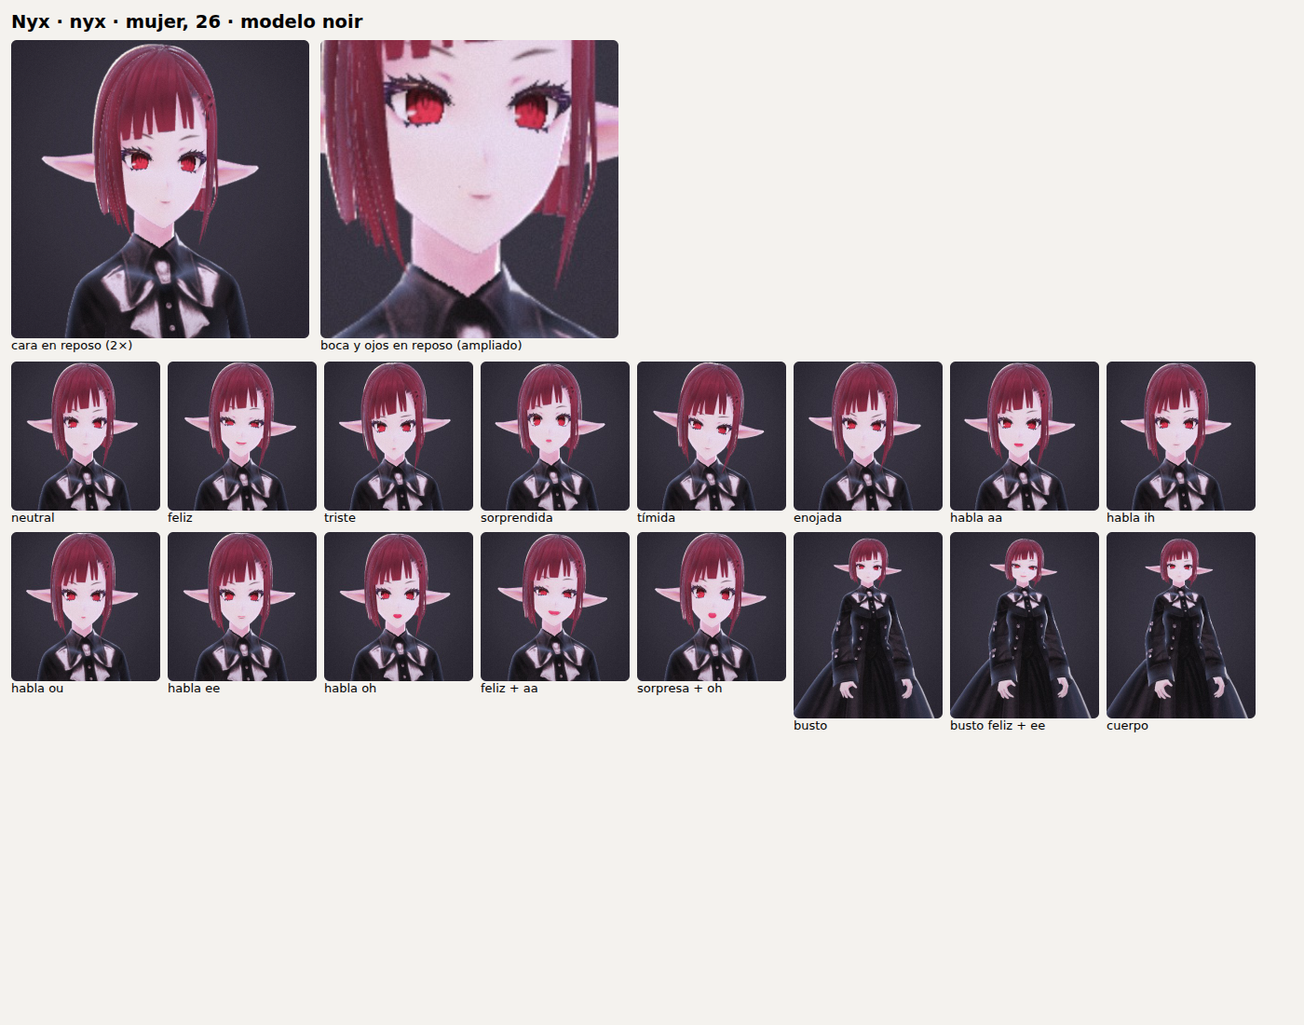
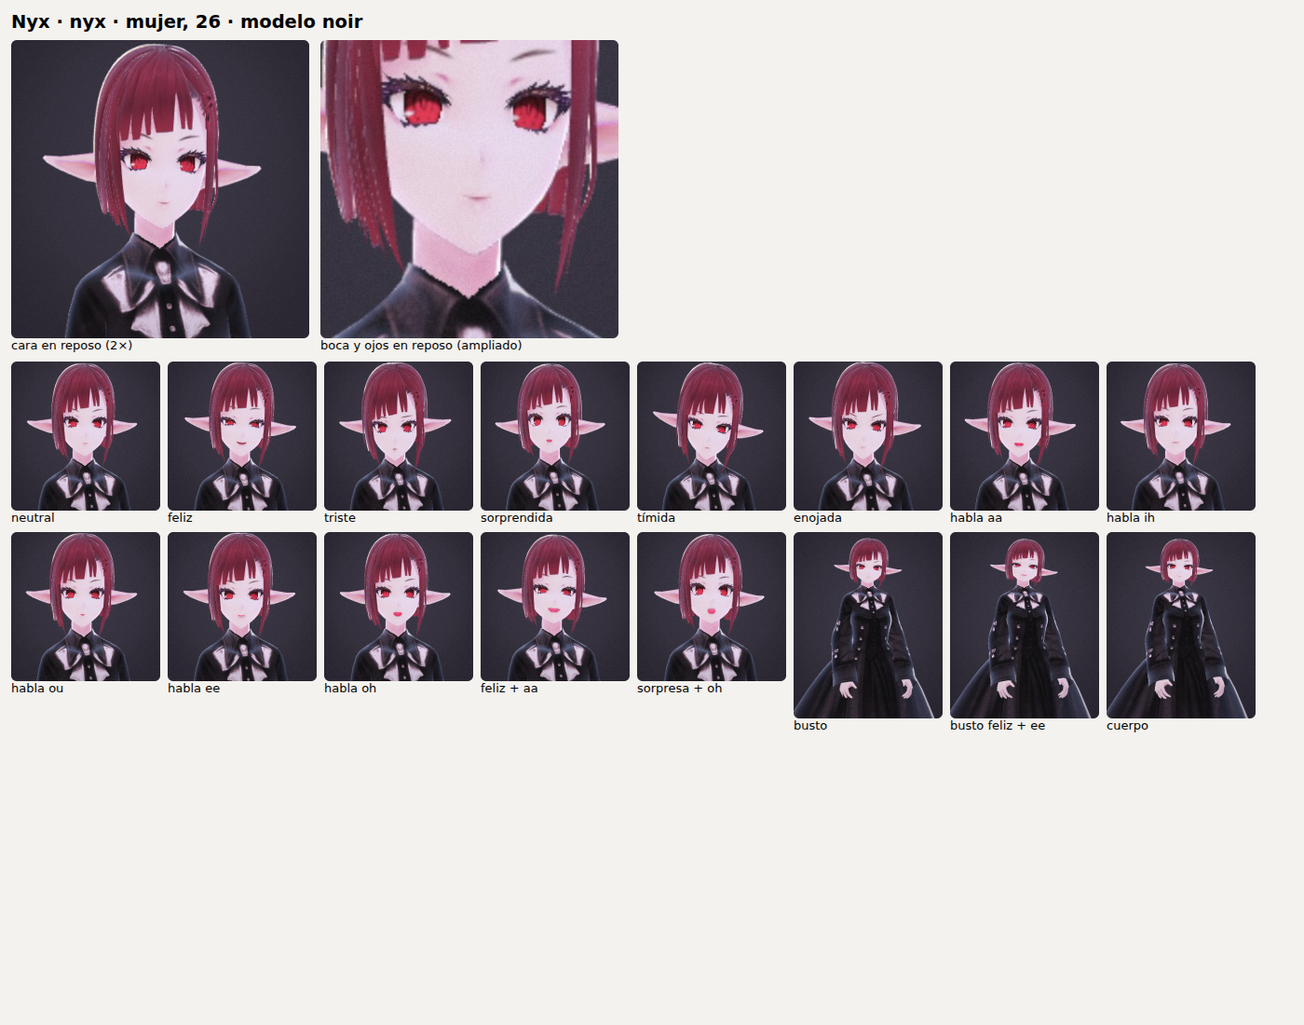
WP-10: boca cerrada en reposo (interior oscurecido), edad más visible y Personalizar por rangos
Tras la primera revisión independiente: 7 bocas con doble línea (dientes por la rendija),
35+ poco maduro y deslizador sin rangos. Interior de la boca en tono sombra en reposo;
ojos más estrechos por rango, maquillaje discreto desde 28, sombra de barba en hombres 35+;
a 35+ fuera también camiseta y sudadera; peinado parecido al cambiar de cuerpo; botones de
rango + edad exacta; textos más claros. Prompt de habla por edad desplegado.

Claude-Session: https://claude.ai/code/session_0188cjAJLeq8GTW6oDs1W4kc

diff --git a/src/lib/character/ageRanges.ts b/src/lib/character/ageRanges.ts
@@ -31,6 +31,8 @@ export interface AgeRange {
   accessoriesDenied: string[];
   /** Ropa lisa obligatoria (estilo más cuidado). */
   plainOutfit: boolean;
+  /** Rubor máximo (el rubor fuerte aniña) y maquillaje adulto discreto si no se eligió otro. */
+  makeup: { blushMax: number; lip: string | null; eyeshadow: string | null };
   /** Voces adecuadas (ids de VOICES); la primera es la automática. */
   voices: { female: string[]; male: string[] };
   /** Cómo habla (va al prompt del personaje). */
@@ -72,6 +74,7 @@ export const AGE_RANGES: AgeRange[] = [
     hairDenied: [],
     accessoriesDenied: [],
     plainOutfit: false,
+    makeup: { blushMax: 1, lip: null, eyeshadow: null },
     voices: { female: [V.sarah, V.laura, V.jessica, V.lily], male: [V.liam, V.chris, V.will, V.eric] },
     speech: 'Hablas como alguien de entre 18 y 22 años: fresco y espontáneo, con expresiones actuales, pero sin sonar infantil.',
   },
@@ -82,11 +85,12 @@ export const AGE_RANGES: AgeRange[] = [
     label: { es: '23–27 años', en: '23–27' },
     short: '23–27',
     typical: 25,
-    face: { lid: 0.05, iris: 0.97, head: 1, contour: 0 },
+    face: { lid: 0.07, iris: 0.97, head: 1, contour: 0 },
     bodiesDenied: [],
     hairDenied: [],
     accessoriesDenied: [],
     plainOutfit: false,
+    makeup: { blushMax: 0.5, lip: null, eyeshadow: null },
     voices: { female: [V.sarah, V.jessica, V.alice, V.laura, V.lily], male: [V.liam, V.will, V.eric, V.chris, V.callum] },
     speech: 'Hablas como alguien de entre 23 y 27 años: natural y seguro, cercano, con algo de humor.',
   },
@@ -97,12 +101,13 @@ export const AGE_RANGES: AgeRange[] = [
     label: { es: '28–34 años', en: '28–34' },
     short: '28–34',
     typical: 31,
-    face: { lid: 0.17, iris: 0.86, head: 0.96, contour: 0.55 },
+    face: { lid: 0.2, iris: 0.9, head: 0.96, contour: 0.55 },
     // "Gatita": ropa y orejas de estilo juvenil
     bodiesDenied: ['hair_f'],
     hairDenied: ['hair_f', 'bibi'],
     accessoriesDenied: CUTE,
     plainOutfit: true,
+    makeup: { blushMax: 0.2, lip: '#B0646C', eyeshadow: '#B79A9A' },
     voices: { female: [V.alice, V.lily, V.matilda, V.jessica], male: [V.eric, V.callum, V.brian, V.george, V.will] },
     speech: 'Hablas como alguien de entre 28 y 34 años: con aplomo y las cosas claras, menos jerga, una calidez más asentada.',
   },
@@ -110,16 +115,17 @@ export const AGE_RANGES: AgeRange[] = [
     id: '35+',
     min: 35,
     max: 99,
-    label: { es: '35 o más', en: '35+' },
+    label: { es: '35 años o más', en: '35+' },
     short: '35+',
     typical: 38,
-    face: { lid: 0.3, iris: 0.76, head: 0.93, contour: 1 },
+    face: { lid: 0.36, iris: 0.86, head: 0.93, contour: 1 },
     // solo ropa de persona adulta y cuidada: fuera la princesa con volantes, la gatita, la ciencia
     // ficción, la sudadera urbana y la camiseta básica
     bodiesDenied: ['hair_f', 'victoria', 'vita', 'hair_m', 'mei'],
     hairDenied: ['hair_f', 'bibi', 'vita'],
     accessoriesDenied: [...CUTE, 'fox_ears', 'flower_crown', 'fairy_wings', 'flower'],
     plainOutfit: true,
+    makeup: { blushMax: 0.1, lip: '#A0525E', eyeshadow: '#A88A8C' },
     voices: { female: [V.matilda, V.alice, V.lily], male: [V.brian, V.george, V.daniel, V.callum] },
     speech: 'Hablas como alguien de 35 años o más: maduro y sereno, con experiencia de vida; vocabulario cuidado y nada de jerga juvenil.',
   },
@@ -148,6 +154,9 @@ export const voiceAllowedForAge = (id: string | null, age: number, gender: strin
  */
 const ORIGINAL_HAIR: Record<string, string> = { hair_m: '#2B2A3A', hair_f: '#2B2A3A', vita: '#3A4A6A', victoria: '#D9AE6A' };
 
+/** Peinados largos (si hay que cambiarlos, mejor por otro largo). */
+const LONG_HAIR = new Set(['victoria', 'hair_f', 'mei', 'shino', 'noir']);
+
 /** Cuerpo adulto de repuesto si el elegido no encaja con la edad. */
 const BODY_FALLBACK: Record<string, string> = { female: 'shibu', male: 'fumiriya' };
 
@@ -163,11 +172,25 @@ export function applyAge(look: CharacterLook, age: number, gender: string = 'fem
     const keepHair = out.hair ?? out.model;
     if (!out.hairColor && ORIGINAL_HAIR[keepHair]) out.hairColor = ORIGINAL_HAIR[keepHair];
     out.model = BODY_FALLBACK[gender] ?? 'mei';
-    out.hair = keepHair !== out.model && !r.hairDenied.includes(keepHair) && hairAllowed(out.model, keepHair) ? keepHair : null;
+    if (keepHair !== out.model && !r.hairDenied.includes(keepHair) && hairAllowed(out.model, keepHair)) out.hair = keepHair;
+    else {
+      // un peinado parecido que encaje en el cuerpo nuevo (melena larga antes que un bob)
+      const similar = (LONG_HAIR.has(keepHair) ? ['mei', 'shino'] : []).find((h) => h !== out.model && !r.hairDenied.includes(h) && hairAllowed(out.model, h));
+      out.hair = similar ?? null;
+    }
   }
   if (out.hair && r.hairDenied.includes(out.hair)) out.hair = null;
   if (out.accessories.some((a) => r.accessoriesDenied.includes(a))) out.accessories = out.accessories.filter((a) => !r.accessoriesDenied.includes(a));
   if (r.plainOutfit) out.plainOutfit = true;
+  if (out.blush > r.makeup.blushMax) out.blush = r.makeup.blushMax;
+  // maquillaje discreto de persona adulta (solo en cuerpos femeninos y si no se eligió otro)
+  // (el automático de otro rango se cambia por el de este; si se baja la edad, se quita)
+  const autoLip = AGE_RANGES.map((x) => x.makeup.lip).filter(Boolean);
+  const autoShadow = AGE_RANGES.map((x) => x.makeup.eyeshadow).filter(Boolean);
+  if (gender === 'female') {
+    if (!out.lipColor || autoLip.includes(out.lipColor)) out.lipColor = r.makeup.lip;
+    if (!out.eyeshadow || autoShadow.includes(out.eyeshadow)) out.eyeshadow = r.makeup.eyeshadow;
+  }
   if (out.voice?.id && !voiceAllowedForAge(out.voice.id, age, gender)) out.voice = { ...out.voice, id: null };
   return out;
 }

diff --git a/avatar-stage/stage.html b/avatar-stage/stage.html
@@ -319,6 +319,7 @@ const rgba = (hex, a) => { const [r, g, b] = rgb(hex); return `rgba(${r},${g},${
  */
 // Bocas dibujadas con forma propia (labios a dos tonos): no se retocan.
 const MOUTH_KEEP = new Set(['bibi', 'vita']);
+const MALE_BODIES = new Set(['hair_m', 'fumiriya']);
 
 /**
  * Boca en reposo cerrada y natural (WP-10). Las texturas de cara de VRoid traen un punto de
@@ -423,7 +424,7 @@ function paintFace(look) {
   const blush = Math.max(0, Math.min(1, +look.blush || 0));
   const marks = Array.isArray(look.marks) ? look.marks : [];
   const mouth = !MOUTH_KEEP.has(look.model);
-  if (!mouth && !ageFace(look).contour && !blush && !look.lipColor && !look.eyeshadow && !marks.length) return null;
+  if (!mouth && !ageFace(look).contour && !ageFace(look).stubble && !blush && !look.lipColor && !look.eyeshadow && !marks.length) return null;
   return (g, W, H) => {
     const X = (x) => x * W, Y = (y) => y * H;
     if (mouth) cleanMouth(g, W, H);
@@ -437,6 +438,11 @@ function paintFace(look) {
     // edad: sombra muy suave bajo los pómulos y hacia la mandíbula (cara más definida)
     const contour = ageFace(look).contour;
     if (contour) for (const cx of [0.25, 0.75]) soft(cx, 0.72, 0.075, 0.11, '#B88270', 0.3 * contour, 'multiply');
+    // hombres de 35+: sombra de barba muy leve en barbilla y mandíbula
+    if (ageFace(look).stubble && MALE_BODIES.has(look.model)) {
+      soft(0.5, 0.81, 0.1, 0.045, '#8C8496', 0.32, 'multiply');
+      for (const cx of [0.36, 0.64]) soft(cx, 0.76, 0.06, 0.06, '#8C8496', 0.22, 'multiply');
+    }
     if (look.eyeshadow) for (const cx of [0.352, 0.662]) soft(cx, 0.527, 0.09, 0.045, look.eyeshadow, 0.85, 'multiply');
     if (blush) for (const cx of [0.315, 0.688]) soft(cx, 0.655, 0.075, 0.045, '#F07C98', 0.5 * blush);
     if (look.lipColor) {
@@ -588,7 +594,7 @@ function applyFinish(look) {
 function applyColors(look) {
   const targets = [current.vrm?.scene, current.hairVrm?.scene].filter(Boolean);
   const facePaint = paintFace(look);
-  const faceKey = JSON.stringify(['boca1', look.model, ageFace(look).contour, look.blush, look.lipColor, look.eyeshadow, look.marks]);
+  const faceKey = JSON.stringify(['boca1', look.model, ageFace(look).contour, ageFace(look).stubble, look.blush, look.lipColor, look.eyeshadow, look.marks]);
   for (const root of targets) {
     const own = root === current.vrm.scene;
     eachMaterial(root, (m) => {
@@ -817,10 +823,10 @@ async function load(look, base) {
  * pequeños (el iris grande es lo que más aniña una cara anime).
  */
 const AGE_FACE = {
-  '18-22': { lid: 0, natural: 0, head: 1.02, contour: 0, iris: 1 },
-  '23-27': { lid: 0.05, natural: 0.15, head: 1, contour: 0, iris: 0.97 },
-  '28-34': { lid: 0.17, natural: 0.55, head: 0.96, contour: 0.55, iris: 0.86 },
-  '35+': { lid: 0.3, natural: 1, head: 0.93, contour: 1, iris: 0.76 },
+  '18-22': { lid: 0, natural: 0, head: 1.02, contour: 0, iris: 1, stubble: 0 },
+  '23-27': { lid: 0.07, natural: 0.15, head: 1, contour: 0, iris: 0.97, stubble: 0 },
+  '28-34': { lid: 0.2, natural: 0.55, head: 0.96, contour: 0.55, iris: 0.9, stubble: 0 },
+  '35+': { lid: 0.36, natural: 1, head: 0.93, contour: 1, iris: 0.86, stubble: 1 },
 };
 function ageFace(look) {
   const a = +look.age;
@@ -1372,6 +1378,27 @@ const vis = { aa: 0, ih: 0, ou: 0, ee: 0, oh: 0 };
 let syllable = 'aa';
 const EMOTION_HOLD = 9; // segundos con la emoción marcada antes de volver al gesto base
 
+/**
+ * Boca cerrada en reposo (WP-10): los gestos base (sonrisa, serio, pícaro) separan un poco los
+ * labios y por la rendija asomaban los dientes como una raya blanca. En reposo el interior de la
+ * boca (dientes y lengua) toma el tono de la sombra entre los labios, así la rendija se lee como
+ * una sola línea; al hablar recupera su color.
+ */
+const MOUTH_SHADOW = new THREE.Color(0.32, 0.17, 0.17);
+function setMouthInterior(vrm, open) {
+  if (!vrm.userData.mouthMats) {
+    vrm.userData.mouthMats = [];
+    eachMaterial(vrm.scene, (m) => {
+      if (!/FACEMOUTH/i.test(m.name || '') || !m.color) return;
+      vrm.userData.mouthMats.push([m, m.color.clone(), m.shadeColorFactor?.clone()]);
+    });
+  }
+  for (const [m, c0, s0] of vrm.userData.mouthMats) {
+    m.color.copy(MOUTH_SHADOW).lerp(c0, open);
+    if (s0 && m.shadeColorFactor) m.shadeColorFactor.copy(MOUTH_SHADOW).lerp(s0, open);
+  }
+}
+
 /** "Fcl_EYE_Natural" de VRoid (ojos menos redondos): no está en ninguna expresión VRM. */
 function setNaturalEyes(vrm, w) {
   if (vrm.userData.naturalEyes === undefined) {
@@ -1462,6 +1489,9 @@ function step(dt, t, silent = false) {
   const AF = ageFace(look);
   em?.setValue('blink', Math.max(ex.blink, blinkAnim, AF.lid * (1 - ex.happy * 2) * (1 - ex.surprised * 2)));
   setNaturalEyes(vrm, AF.natural);
+  // abierta según lo que hable (vocales) o la emoción que abra la boca (sorpresa, alegría fuerte)
+  const opening = Math.max(...VISEMES.map((v) => vis[v])) * 2.5 + ex.surprised * 2 + Math.max(0, ex.happy - 0.25) * 3;
+  setMouthInterior(vrm, Math.min(1, opening));
   // cabeza, respiración y pose
   const think = ex.relaxed > 0.3 && mood === 'thinking' ? 1 : 0;
   current.think = (current.think || 0) + (think - (current.think || 0)) * Math.min(1, dt * 3);

diff --git a/src/lib/avatarStageHtml.ts b/src/lib/avatarStageHtml.ts
@@ -320,6 +320,7 @@ const rgba = (hex, a) => { const [r, g, b] = rgb(hex); return \`rgba(\${r},\${g}
  */
 // Bocas dibujadas con forma propia (labios a dos tonos): no se retocan.
 const MOUTH_KEEP = new Set(['bibi', 'vita']);
+const MALE_BODIES = new Set(['hair_m', 'fumiriya']);
 
 /**
  * Boca en reposo cerrada y natural (WP-10). Las texturas de cara de VRoid traen un punto de
@@ -424,7 +425,7 @@ function paintFace(look) {
   const blush = Math.max(0, Math.min(1, +look.blush || 0));
   const marks = Array.isArray(look.marks) ? look.marks : [];
   const mouth = !MOUTH_KEEP.has(look.model);
-  if (!mouth && !ageFace(look).contour && !blush && !look.lipColor && !look.eyeshadow && !marks.length) return null;
+  if (!mouth && !ageFace(look).contour && !ageFace(look).stubble && !blush && !look.lipColor && !look.eyeshadow && !marks.length) return null;
   return (g, W, H) => {
     const X = (x) => x * W, Y = (y) => y * H;
     if (mouth) cleanMouth(g, W, H);
@@ -438,6 +439,11 @@ function paintFace(look) {
     // edad: sombra muy suave bajo los pómulos y hacia la mandíbula (cara más definida)
     const contour = ageFace(look).contour;
     if (contour) for (const cx of [0.25, 0.75]) soft(cx, 0.72, 0.075, 0.11, '#B88270', 0.3 * contour, 'multiply');
+    // hombres de 35+: sombra de barba muy leve en barbilla y mandíbula
+    if (ageFace(look).stubble && MALE_BODIES.has(look.model)) {
+      soft(0.5, 0.81, 0.1, 0.045, '#8C8496', 0.32, 'multiply');
+      for (const cx of [0.36, 0.64]) soft(cx, 0.76, 0.06, 0.06, '#8C8496', 0.22, 'multiply');
+    }
     if (look.eyeshadow) for (const cx of [0.352, 0.662]) soft(cx, 0.527, 0.09, 0.045, look.eyeshadow, 0.85, 'multiply');
     if (blush) for (const cx of [0.315, 0.688]) soft(cx, 0.655, 0.075, 0.045, '#F07C98', 0.5 * blush);
     if (look.lipColor) {
@@ -589,7 +595,7 @@ function applyFinish(look) {
 function applyColors(look) {
   const targets = [current.vrm?.scene, current.hairVrm?.scene].filter(Boolean);
   const facePaint = paintFace(look);
-  const faceKey = JSON.stringify(['boca1', look.model, ageFace(look).contour, look.blush, look.lipColor, look.eyeshadow, look.marks]);
+  const faceKey = JSON.stringify(['boca1', look.model, ageFace(look).contour, ageFace(look).stubble, look.blush, look.lipColor, look.eyeshadow, look.marks]);
   for (const root of targets) {
     const own = root === current.vrm.scene;
     eachMaterial(root, (m) => {
@@ -818,10 +824,10 @@ async function load(look, base) {
  * pequeños (el iris grande es lo que más aniña una cara anime).
  */
 const AGE_FACE = {
-  '18-22': { lid: 0, natural: 0, head: 1.02, contour: 0, iris: 1 },
-  '23-27': { lid: 0.05, natural: 0.15, head: 1, contour: 0, iris: 0.97 },
-  '28-34': { lid: 0.17, natural: 0.55, head: 0.96, contour: 0.55, iris: 0.86 },
-  '35+': { lid: 0.3, natural: 1, head: 0.93, contour: 1, iris: 0.76 },
+  '18-22': { lid: 0, natural: 0, head: 1.02, contour: 0, iris: 1, stubble: 0 },
+  '23-27': { lid: 0.07, natural: 0.15, head: 1, contour: 0, iris: 0.97, stubble: 0 },
+  '28-34': { lid: 0.2, natural: 0.55, head: 0.96, contour: 0.55, iris: 0.9, stubble: 0 },
+  '35+': { lid: 0.36, natural: 1, head: 0.93, contour: 1, iris: 0.86, stubble: 1 },
 };
 function ageFace(look) {
   const a = +look.age;
@@ -1373,6 +1379,27 @@ const vis = { aa: 0, ih: 0, ou: 0, ee: 0, oh: 0 };
 let syllable = 'aa';
 const EMOTION_HOLD = 9; // segundos con la emoción marcada antes de volver al gesto base
 
+/**
+ * Boca cerrada en reposo (WP-10): los gestos base (sonrisa, serio, pícaro) separan un poco los
+ * labios y por la rendija asomaban los dientes como una raya blanca. En reposo el interior de la
+ * boca (dientes y lengua) toma el tono de la sombra entre los labios, así la rendija se lee como
+ * una sola línea; al hablar recupera su color.
+ */
+const MOUTH_SHADOW = new THREE.Color(0.32, 0.17, 0.17);
+function setMouthInterior(vrm, open) {
+  if (!vrm.userData.mouthMats) {
+    vrm.userData.mouthMats = [];
+    eachMaterial(vrm.scene, (m) => {
+      if (!/FACEMOUTH/i.test(m.name || '') || !m.color) return;
+      vrm.userData.mouthMats.push([m, m.color.clone(), m.shadeColorFactor?.clone()]);
+    });
+  }
+  for (const [m, c0, s0] of vrm.userData.mouthMats) {
+    m.color.copy(MOUTH_SHADOW).lerp(c0, open);
+    if (s0 && m.shadeColorFactor) m.shadeColorFactor.copy(MOUTH_SHADOW).lerp(s0, open);
+  }
+}
+
 /** "Fcl_EYE_Natural" de VRoid (ojos menos redondos): no está en ninguna expresión VRM. */
 function setNaturalEyes(vrm, w) {
   if (vrm.userData.naturalEyes === undefined) {
@@ -1463,6 +1490,9 @@ function step(dt, t, silent = false) {
   const AF = ageFace(look);
   em?.setValue('blink', Math.max(ex.blink, blinkAnim, AF.lid * (1 - ex.happy * 2) * (1 - ex.surprised * 2)));
   setNaturalEyes(vrm, AF.natural);
+  // abierta según lo que hable (vocales) o la emoción que abra la boca (sorpresa, alegría fuerte)
+  const opening = Math.max(...VISEMES.map((v) => vis[v])) * 2.5 + ex.surprised * 2 + Math.max(0, ex.happy - 0.25) * 3;
+  setMouthInterior(vrm, Math.min(1, opening));
   // cabeza, respiración y pose
   const think = ex.relaxed > 0.3 && mood === 'thinking' ? 1 : 0;
   current.think = (current.think || 0) + (think - (current.think || 0)) * Math.min(1, dt * 3);

diff --git a/src/lib/i18n.tsx b/src/lib/i18n.tsx
@@ -80,7 +80,8 @@ const es = {
   'create.gender.other': 'Otro',
   'create.age': 'Edad',
   'create.age.years': '{n} años',
-  'create.ageHint': 'Rango {range}: la edad cambia el rostro, y el peinado, la ropa, los accesorios y la voz solo ofrecen lo que encaja con ella.',
+  'create.ageHint': 'La edad cambia el rostro y el estilo. Peinados, ropa, accesorios y voces muestran solo lo que encaja con {range}.',
+  'create.age.exact': 'Edad exacta',
   'create.tab.identity': 'Identidad',
   'create.sec.skin': 'Tono de piel',
   'create.sec.eyeColor': 'Color de ojos',
@@ -128,7 +129,7 @@ const es = {
   'welcome.who.any': 'Me da igual',
   'welcome.who.anyHint': 'Lovel House elige por ti',
   'welcome.q.age': '¿Qué edad tiene?',
-  'welcome.h.age': 'Su edad cambia cómo habla y cómo te trata.',
+  'welcome.h.age': 'Su edad cambia su aspecto, cómo habla y cómo te trata.',
   'welcome.age.years': '{range} años',
   'welcome.age.a': 'Juventud y espontaneidad',
   'welcome.age.b': 'Chispa y algo de experiencia',
@@ -454,7 +455,8 @@ const en: Record<Key, string> = {
   'create.gender.other': 'Other',
   'create.age': 'Age',
   'create.age.years': '{n} years old',
-  'create.ageHint': 'Range {range}: age changes the face, and hairstyle, outfit, accessories and voice only offer what fits it.',
+  'create.ageHint': 'Age changes the face and the style. Hairstyles, outfits, accessories and voices only show what fits {range}.',
+  'create.age.exact': 'Exact age',
   'create.tab.identity': 'Identity',
   'create.sec.skin': 'Skin tone',
   'create.sec.eyeColor': 'Eye color',
@@ -502,7 +504,7 @@ const en: Record<Key, string> = {
   'welcome.who.any': 'Surprise me',
   'welcome.who.anyHint': 'Lovel House picks for you',
   'welcome.q.age': 'How old are they?',
-  'welcome.h.age': 'Their age changes how they talk and treat you.',
+  'welcome.h.age': 'Their age changes how they look, talk and treat you.',
   'welcome.age.years': '{range} years old',
   'welcome.age.a': 'Young, spontaneous',
   'welcome.age.b': 'Lively, with some experience',

diff --git a/src/app/avatar/create.tsx b/src/app/avatar/create.tsx
@@ -47,7 +47,7 @@ import {
   toggleAccessory,
   VOICES,
 } from '@/lib/character/catalog';
-import { accessoryAllowedForAge, ageRange, applyAge, bodyAllowedForAge, hairAllowedForAge, voiceAllowedForAge } from '@/lib/character/ageRanges';
+import { accessoryAllowedForAge, AGE_RANGES, ageRange, applyAge, bodyAllowedForAge, hairAllowedForAge, voiceAllowedForAge } from '@/lib/character/ageRanges';
 import { hairPortrait, modelPortrait, stagePoster } from '@/lib/character/media';
 import type { CharacterLook, Outline } from '@/lib/character/types';
 import { createFromDraft, isAvatarLimit } from '@/lib/createCharacter';
@@ -680,7 +680,10 @@ export default function CreateCharacter() {
           />
         </Group>
         <Group title={t('create.age')} hint={t('create.ageHint', { range: ageRange(age).label[language] })}>
-          <Slider label={t('create.age')} value={age} min={18} max={60} step={1} onChange={(v) => changeAge(Math.round(v))} format={(v) => t('create.age.years', { n: Math.round(v) })} left="18" right="60" />
+          {/* los 4 rangos (como en el cuestionario) y la edad exacta dentro del rango */}
+          <Chips options={AGE_RANGES.map((r) => ({ id: r.id, label: r.short }))} value={ageRange(age).id} onChange={(id) => changeAge(AGE_RANGES.find((r) => r.id === id)!.typical)} />
+          <View className="h-3" />
+          <Slider label={t('create.age.exact')} value={age} min={18} max={60} step={1} onChange={(v) => changeAge(Math.round(v))} format={(v) => t('create.age.years', { n: Math.round(v) })} left="18" right="60" />
         </Group>
       </>
     ),

diff --git a/src/lib/character/media.ts b/src/lib/character/media.ts
@@ -2,7 +2,7 @@ import type { ImageSourcePropType } from 'react-native';
 
 import { SUPABASE_URL } from '@/constants/supabaseConfig';
 
-import { ageRange } from './ageRanges';
+import { ageRange, applyAge } from './ageRanges';
 import { PRESETS } from './catalog';
 import type { CharacterLook } from './types';
 
@@ -85,7 +85,8 @@ const canonical = (v: unknown): string =>
 // La edad no cuenta para reconocer el aspecto, pero el retrato solo vale si el rango de edad
 // es el mismo que el del personaje listo (WP-10: el rostro y la ropa cambian con la edad).
 const withoutAge = ({ age: _age, ...rest }: CharacterLook) => rest;
-const PRESET_KEYS = new Map(PRESETS.map((p) => [canonical(withoutAge(p.look)), p]));
+// el personaje listo tal y como se ve con su edad (maquillaje, rubor…)
+const PRESET_KEYS = new Map(PRESETS.map((p) => [canonical(withoutAge(applyAge(p.look, p.age, p.gender))), p]));
 function presetFor(look: CharacterLook) {
   const p = PRESET_KEYS.get(canonical(withoutAge(look)));
   return p && (look.age == null || ageRange(look.age).id === ageRange(p.age).id) ? p : undefined;

diff --git a/docs/wp10-personajes.md b/docs/wp10-personajes.md
@@ -11,6 +11,8 @@
 - La línea pasa a tono labio, tiene un largo máximo y se afina hacia las comisuras. La piel de referencia es la de justo encima y debajo, para no dejar halos.
 - `bibi` y `vita` tienen labios dibujados con forma propia y no se tocan.
 
+**Interior de la boca.** Los gestos base (sonrisa, serio, pícaro) separan un poco los labios, y por la rendija asomaban los dientes como una raya blanca. En reposo, el interior de la boca (dientes y lengua) toma el tono de la sombra entre los labios, así que la rendija se lee como una sola línea. Al hablar, o con una emoción que abre la boca, recupera su color.
+
 **Al hablar.** Las sílabas duran 0,1–0,19 s y la transición de una vocal a otra es suave. Al terminar, la boca se cierra en unos 0,25 s; comprobado que todas las vocales vuelven a 0.
 
 **En la QA.** Cada hoja de `docs/qa/` empieza ahora con la cara en reposo a doble tamaño y la zona de boca y ojos ampliada. `docs/qa/CHECKLIST.md` añade la revisión de boca, ojos y cejas en reposo, y la de edad.
@@ -26,9 +28,9 @@ El sistema vive en `src/lib/character/ageRanges.ts` y es la única fuente para e
 | Rango | Rostro (escenario 3D) | Ropa (cuerpos fuera) | Peinados fuera | Accesorios fuera | Voces (la 1.ª es la automática) |
 |---|---|---|---|---|---|
 | 18–22 | Base, cabeza 1,02 | — | — | — | Sarah, Laura, Jessica, Lily / Liam, Chris, Will, Eric |
-| 23–27 | Párpado 0,05, iris 97 % | — | — | — | Sarah, Jessica, Alice, Laura, Lily / Liam, Will, Eric, Chris, Callum |
-| 28–34 | Párpado 0,17, iris 86 %, ojos "naturales", cabeza 0,96, sombreado en mejillas; ropa lisa | Gatita | Coletas, moños | Orejas de gato y conejo, lazo, horquilla de estrella | Alice, Lily, Matilda, Jessica / Eric, Callum, Brian, George, Will |
-| 35+ | Párpado 0,3, iris 76 %, cabeza 0,93, sombreado más marcado; ropa lisa | Princesa, Gatita, Ciencia ficción, Urbano (sudadera), Casual (camiseta) | Coletas, moños, corto futurista | Las anteriores, más orejas de zorro, corona de flores, flor y alas de hada | Matilda, Alice, Lily / Brian, George, Daniel, Callum |
+| 23–27 | Párpado 0,07, iris 97 %; rubor ≤ 0,5 | — | — | — | Sarah, Jessica, Alice, Laura, Lily / Liam, Will, Eric, Chris, Callum |
+| 28–34 | Párpado 0,2, iris 90 %, ojos "naturales", cabeza 0,96, sombreado en mejillas; maquillaje discreto (labios, sombra), rubor ≤ 0,2; ropa lisa | Gatita | Coletas, moños | Orejas de gato y conejo, lazo, horquilla de estrella | Alice, Lily, Matilda, Jessica / Eric, Callum, Brian, George, Will |
+| 35+ | Párpado 0,36, iris 86 %, cabeza 0,93, sombreado más marcado, sombra de barba leve en hombres; maquillaje discreto, rubor ≤ 0,1; ropa lisa | Princesa, Gatita, Ciencia ficción, Urbano (sudadera), Casual (camiseta) | Coletas, moños, corto futurista | Las anteriores, más orejas de zorro, corona de flores, flor y alas de hada | Matilda, Alice, Lily / Brian, George, Daniel, Callum |
 
 La voz neutra (River) vale para cualquier edad.
 
@@ -37,7 +39,8 @@ La voz neutra (River) vale para cualquier edad.
 - **Personalizar.**
   - Cambiar la edad cambia el aspecto al momento.
   - Cuerpos, peinados, accesorios y voces solo ofrecen lo que encaja.
-  - Lo que deja de encajar se sustituye por lo más parecido. Si cambia el cuerpo, se conserva el color de pelo.
+  - Lo que deja de encajar se sustituye por lo más parecido. Si cambia el cuerpo, se conserva el color de pelo y un peinado parecido (largo por largo).
+  - Arriba hay botones con los 4 rangos y debajo la edad exacta.
   - Bajo la barra de edad, un texto explica el rango.
 - **Cuestionario.** Los 4 rangos guardan la edad típica del rango: 21, 25, 31 y 38. Se elige con preferencia un personaje cuya ropa y peinado ya encajen, y el aspecto final pasa por `applyAge`.
 - **Chat.**
